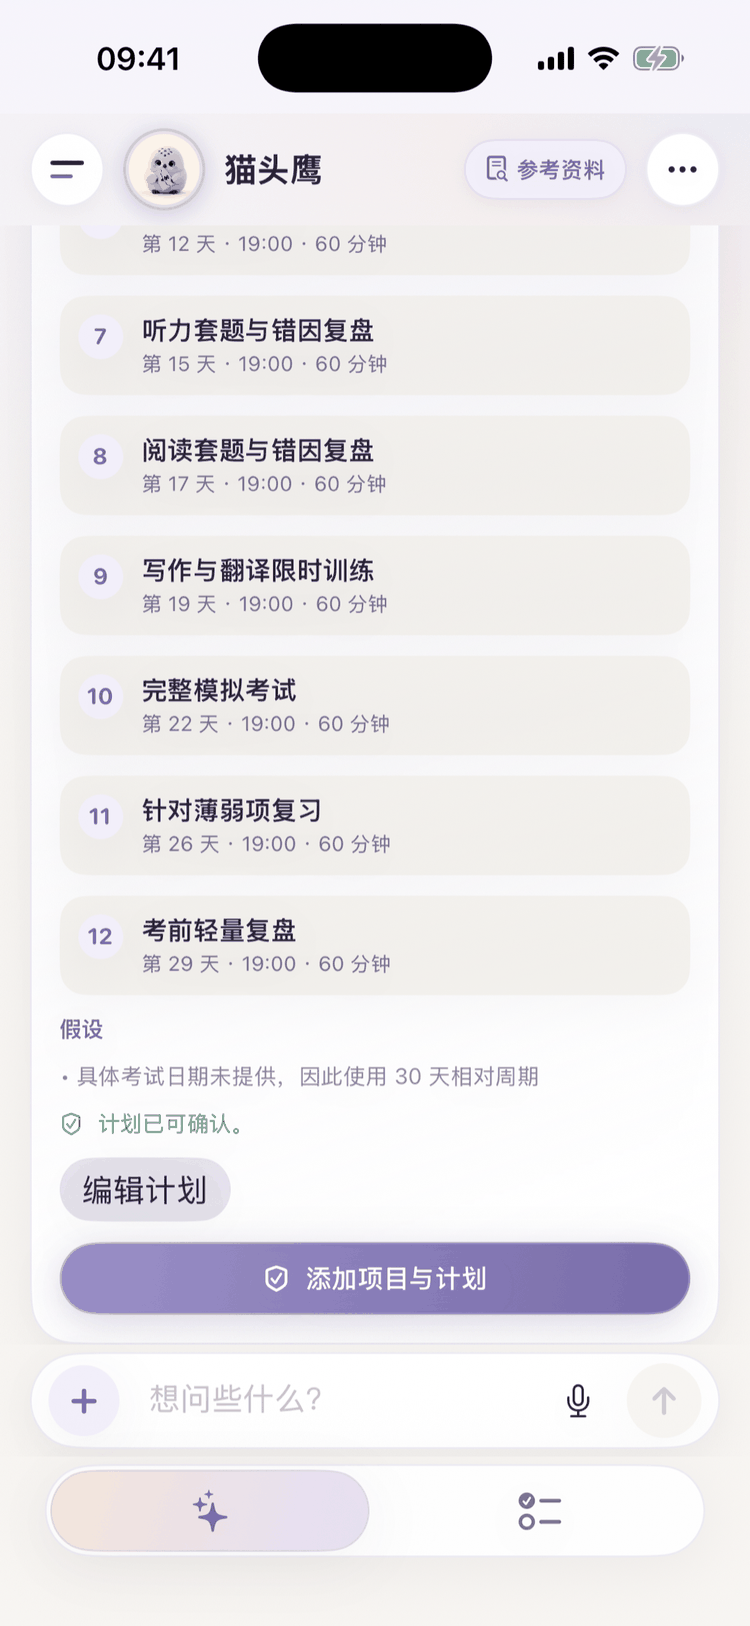
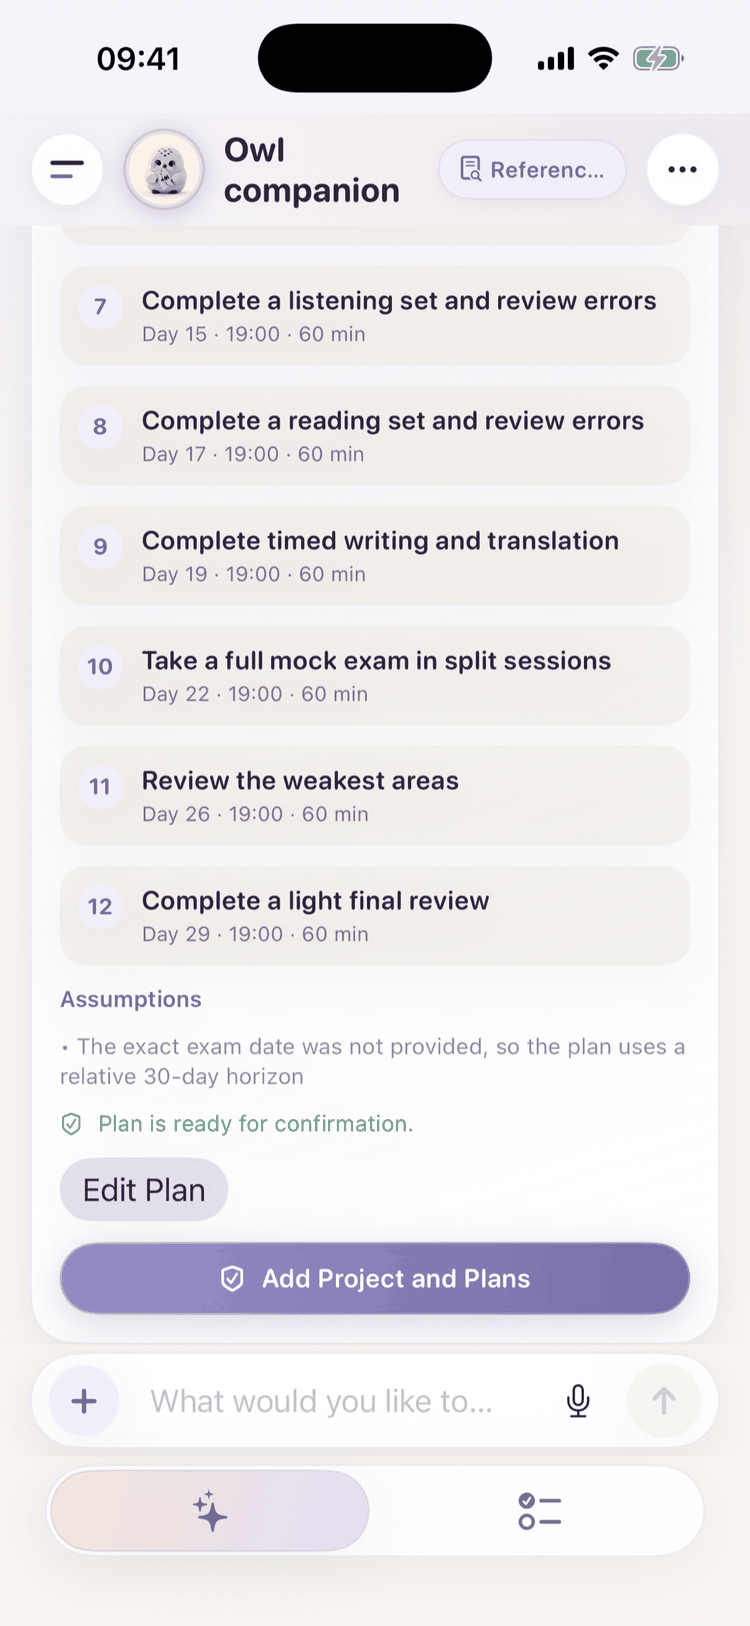
Real English breakdown screenshot (feature-breakdown-en.png); EN alt text describes it
- 750x1626 256-colour PNG, metadata stripped; vetted (no credentials/personal data/retired-feature words)
- site.js fallback to feature-breakdown.png kept (harmless, only used if the -en file fails)

diff --git a/index.html b/index.html
@@ -58,7 +58,7 @@
         <div class="section-head"><p class="eyebrow">How it works</p><h2>One gentle loop, every day.</h2><p>Four steps that build on each other — from knowing what matters to you, to looking back on your day.</p></div>
         <ol class="features">
           <li class="feature"><span class="step" aria-hidden="true">1</span><h3>Get to know you</h3><p>A three-question interview builds your personal profile, so suggestions fit your life. Skip any question you like.</p><figure class="phone"><div class="phone-frame"><img src="/assets/screens/feature-profile-en.png" data-fallback="/assets/screens/feature-profile.png" width="1179" height="2556" alt="Owl getting-to-know-you interview, question 1 of 3: “What does life look like for you lately?”" loading="lazy"></div></figure></li>
-          <li class="feature"><span class="step" aria-hidden="true">2</span><h3>Break down a goal</h3><p>Tell Owl a goal and it drafts small, doable steps. Preview the AI plan first — nothing is saved until you keep it.</p><figure class="phone"><div class="phone-frame"><img src="/assets/screens/feature-breakdown-en.png" data-fallback="/assets/screens/feature-breakdown.png" width="1179" height="2556" alt="Owl AI goal breakdown preview: a 30-day exam-prep plan split into numbered steps (Chinese interface)" loading="lazy"></div></figure></li>
+          <li class="feature"><span class="step" aria-hidden="true">2</span><h3>Break down a goal</h3><p>Tell Owl a goal and it drafts small, doable steps. Preview the AI plan first — nothing is saved until you keep it.</p><figure class="phone"><div class="phone-frame"><img src="/assets/screens/feature-breakdown-en.png" data-fallback="/assets/screens/feature-breakdown.png" width="1179" height="2556" alt="Owl AI goal breakdown preview: steps 7–12 of a 30-day exam-prep plan — listening, reading, timed writing and translation practice, a mock exam and a final review — ready to confirm" loading="lazy"></div></figure></li>
           <li class="feature"><span class="step" aria-hidden="true">3</span><h3>Schedule as todos</h3><p>Place each step on your schedule as a todo, so the next action always has a time.</p><figure class="phone"><div class="phone-frame"><img src="/assets/screens/feature-schedule-en.png" data-fallback="/assets/screens/feature-schedule.png" width="1179" height="2556" alt="Owl plans list: strength training, internship report, quarterly review prep, paper reading, English speaking practice and a morning run" loading="lazy"></div></figure></li>
           <li class="feature"><span class="step" aria-hidden="true">4</span><h3>Evening review</h3><p>Wrap up the day with a short daily review: see what got done and get gentle feedback for tomorrow.</p><figure class="phone"><div class="phone-frame"><img src="/assets/screens/feature-review-en.png" data-fallback="/assets/screens/feature-review.png" width="1179" height="2556" alt="Owl evening daily review: mark today’s todos as completed or unfinished" loading="lazy"></div></figure></li>
         </ol>

diff --git a/README.md b/README.md
@@ -41,7 +41,7 @@ Requirements:
 - Export without EXIF/GPS metadata (the verifier rejects it) and keep each file under 1.5 MB; consider re-encoding to keep the page light.
 - Status bar: clean (full battery, 9:41) and no personal data in the screenshot.
 - **Two sets:** the zh home (`/zh/`) uses `assets/screens/<slot>.png` (Chinese UI); the EN home (`/`) uses `assets/screens/<slot>-en.png` (English UI). `assets/js/site.js` falls back to `<slot>.png` if an `-en` file is missing. `verify_site.sh` requires both sets.
-- Current state (2026-10-30, screenshot set v2, demo data work/study/fitness): all ten files are real 0.4.5 screenshots (750 × 1626, 256-colour PNG, metadata stripped) — zh set `hero`, `feature-profile` (interview Q1), `feature-breakdown`, `feature-schedule`, `feature-review`; English-UI set `hero-en`, `feature-profile-en`, `feature-schedule-en`, `feature-review-en`. **Exception:** `feature-breakdown-en.png` is a copy of the zh breakdown (the EN breakdown demo content is hardcoded Chinese in the app); replace it when an English breakdown shot exists. Keep the `width="1179" height="2556"` attributes — they only set the aspect ratio.
+- Current state (2026-10-30, screenshot set v2, demo data work/study/fitness): all ten files are real 0.4.5 screenshots (750 × 1626, 256-colour PNG, metadata stripped) — zh set `hero`, `feature-profile` (interview Q1), `feature-breakdown`, `feature-schedule`, `feature-review`; English-UI set `hero-en`, `feature-profile-en`, `feature-breakdown-en`, `feature-schedule-en`, `feature-review-en`. Keep the `width="1179" height="2556"` attributes — they only set the aspect ratio.
 
 Pet art: `assets/images/pets/pet-{owl,cat,toad}-512.webp` and `pet-*-christmas-512.webp` (512 px web versions of the finalized v2 / christmas-clean art).
 Share image: `assets/social/og-owl.jpg` (1200 × 630).
